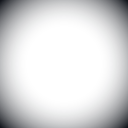
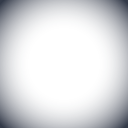
feat(gui): redesign UI to casual Supercell / Empires & Puzzles style with 3D buttons, carved gem sockets, and royal slate palette

diff --git a/tools/gen_sprites.js b/tools/gen_sprites.js
@@ -162,76 +162,104 @@ function canvas(w, h) {
 }
 
 // ======================================================================= UI & PANELS
-{ // panel_dark (96x96 slice-9, border 22)
+{ // panel_dark (96x96 slice-9, border 22) - Royal slate beveled tablet (Clash Royale)
   const c = canvas(96, 96);
-  const outer = rbox(48, 48, 44, 44, 14);
-  c.outlined(outer, vgrad(H('#242c42'), H('#161b29'), 6, 90), 3);
-  c.stroke(rbox(48, 48, 41, 41, 12), H('#4a587a', 0.8), 2.5);
-  c.stroke(rbox(48, 48, 37, 37, 10), H('#0d1019', 0.6), 2);
+  c.fill(rbox(48, 51, 44, 43, 15), H('#070b13', 0.55));
+  const outer = rbox(48, 47, 44, 43, 14);
+  c.outlined(outer, vgrad(H('#324466'), H('#1a2538'), 6, 88), 2.5, H('#0c131f'));
+  c.stroke(rbox(48, 47, 42, 41, 12), vgrad(H('#5e7ca8', 0.75), H('#28374d', 0.2), 6, 88), 2);
+  c.fill(rbox(48, 48, 38, 38, 10), vgrad(H('#22314a'), H('#192336'), 10, 86));
+  c.fill(rbox(48, 20, 36, 6, 4), H('#ffffff', 0.05));
   c.save('panel_dark');
 }
-{ // panel_stone (96x96 slice-9, border 24) - heavy board frame
+{ // panel_stone (96x96 slice-9, border 24) - Sculpted royal stone & gold trim (Empires & Puzzles / Clash of Clans)
   const c = canvas(96, 96);
-  const outer = rbox(48, 48, 45, 45, 16);
-  c.outlined(outer, vgrad(H('#2e3752'), H('#181d2c'), 4, 92), 3);
-  c.stroke(rbox(48, 48, 42, 42, 13), H('#b68c44', 0.85), 3);
-  c.fill(rbox(48, 48, 36, 36, 9), H('#111521'));
-  for (const [rx, ry] of [[14, 14], [82, 14], [14, 82], [82, 82]]) {
-    c.outlined(circle(rx, ry, 4.2), H('#e8b84b'), 1.8);
+  c.fill(rbox(48, 52, 45, 43, 16), H('#05080e', 0.7));
+  const outer = rbox(48, 47, 45, 43, 15);
+  c.outlined(outer, vgrad(H('#3c4f73'), H('#1d283c'), 4, 90), 3, H('#0a0f18'));
+  c.stroke(rbox(48, 47, 42, 40, 13), vgrad(H('#ffd566'), H('#b87d26'), 6, 88), 3);
+  c.stroke(rbox(48, 47, 39, 37, 10), H('#784f14', 0.8), 1.5);
+  c.fill(rbox(48, 47, 36, 35, 8), vgrad(H('#1c283c'), H('#131c2b'), 12, 82));
+  for (const [rx, ry] of [[15, 14], [81, 14], [15, 80], [81, 80]]) {
+    c.fill(circle(rx, ry + 1.5, 4.5), H('#5a3a0e'));
+    c.outlined(circle(rx, ry, 4.2), vgrad(H('#fff199'), H('#d48b17'), ry - 4, ry + 4), 1.6, H('#422705'));
+    c.fill(circle(rx - 1, ry - 1, 1.3), H('#ffffff', 0.85));
   }
   c.save('panel_stone');
 }
-for (const [name, c1, c2, rim] of [
-  ['card_common', '#45506b', '#272e40', '#8b99b8'],
-  ['card_rare', '#634329', '#2b1f21', '#f09a36'],
-  ['card_epic', '#4e2c75', '#211638', '#d273ff'],
-  ['card_legendary', '#1d5a73', '#2d1c4a', '#52f0ff'],
+for (const [name, cTop, cBot, rimTop, rimBot, studCol] of [
+  ['card_common',    '#7184a3', '#324157', '#cbd7e8', '#889cb8', '#dce7f5'],
+  ['card_rare',      '#b86414', '#572704', '#fed777', '#d97706', '#ffe894'],
+  ['card_epic',      '#8b35dc', '#421175', '#f0abfc', '#a855f7', '#ffd644'],
+  ['card_legendary', '#0ea5e9', '#1e3a8a', '#7dd3fc', '#0284c7', '#52f0ff'],
 ]) {
   const c = canvas(96, 96);
-  c.outlined(rbox(48, 48, 44, 44, 14), vgrad(H(c1), H(c2), 6, 90), 3);
-  c.stroke(rbox(48, 48, 40, 40, 11), H(rim), 3.5);
-  c.fill(rbox(48, 48, 35, 35, 8), H('#151926', 0.85));
-  if (name === 'card_epic' || name === 'card_legendary') {
-    const stud = name === 'card_legendary' ? H('#52f0ff') : H('#ffd644');
-    for (const [rx, ry] of [[14, 14], [82, 14], [14, 82], [82, 82]]) c.fill(circle(rx, ry, 4.2), stud);
+  c.fill(rbox(48, 51, 44, 43, 15), H('#080c14', 0.6));
+  const outer = rbox(48, 47, 44, 43, 14);
+  c.outlined(outer, vgrad(H(cTop), H(cBot), 6, 88), 2.8, H('#0c121c'));
+  c.stroke(rbox(48, 47, 40, 39, 11), vgrad(H(rimTop), H(rimBot), 8, 86), 3.2);
+  c.fill(rbox(48, 47, 35, 34, 8), (x, y) => {
+    const d = len((x - 48) / 35, (y - 47) / 34);
+    const bg1 = H('#26354f'), bg2 = H('#182233');
+    const base = mix(bg1, bg2, clamp01((y - 12) / 72));
+    return mix(lighter(base, 0.18), base, clamp01(d));
+  });
+  if (name !== 'card_common') {
+    for (const [rx, ry] of [[15, 14], [81, 14], [15, 80], [81, 80]]) {
+      c.fill(circle(rx, ry + 1, 3.8), H('#1a1205', 0.7));
+      c.outlined(circle(rx, ry, 3.5), H(studCol), 1.2, H('#1a1205'));
+      c.fill(circle(rx - 0.8, ry - 0.8, 1.1), H('#ffffff', 0.9));
+    }
   }
   c.save(name);
 }
-for (const [name, top, bot, hi] of [
-  ['btn_gold', '#f2bd47', '#b56d1c', '#ffe89c'],
-  ['btn_purple', '#9d5ce6', '#56299e', '#d6b0ff'],
-  ['btn_crimson', '#e6485c', '#8c1c31', '#ff9aa8'],
-  ['btn_dark', '#35405e', '#20273b', '#5d6e99'],
+for (const [name, topGrad, botGrad, shadowBase, hiStroke] of [
+  ['btn_gold',    '#ffc72c', '#f57c00', '#9c4200', '#fff4b8'],
+  ['btn_green',   '#4ade80', '#16a34a', '#14532d', '#bbf7d0'],
+  ['btn_purple',  '#c084fc', '#7e22ce', '#4c1d95', '#f3e8ff'],
+  ['btn_crimson', '#f87171', '#dc2626', '#7f1d1d', '#fecaca'],
+  ['btn_dark',    '#475e82', '#22324a', '#121d2c', '#859ec4'],
 ]) {
   const c = canvas(96, 64);
-  c.fill(rbox(48, 35, 44, 25, 13), H('#090b12', 0.55));
-  const body = rbox(48, 31, 44, 24, 13);
-  c.outlined(body, vgrad(H(top), H(bot), 8, 54), 3);
-  c.stroke(rbox(48, 31, 41, 21, 11), H(hi, 0.45), 2);
-  c.fill(rbox(48, 15, 34, 4, 2), H(hi, 0.35));
+  c.fill(rbox(48, 38, 44, 23, 14), H('#060910', 0.65));
+  const baseBox = rbox(48, 35, 44, 23, 13);
+  c.outlined(baseBox, H(shadowBase), 2.5, H('#090d16'));
+  const faceBox = rbox(48, 29, 44, 21, 12);
+  c.outlined(faceBox, vgrad(H(topGrad), H(botGrad), 8, 48), 2.5, H('#090d16'));
+  c.stroke(rbox(48, 29, 41, 18, 10), H(hiStroke, 0.45), 1.8);
+  c.fill(rbox(48, 16, 34, 4.5, 3), [1, 1, 1, 0.38]);
   c.save(name);
 }
-{ // btn_round
+{ // btn_round (88x88) - Chunky tactile round button
   const c = canvas(88, 88);
-  c.fill(circle(44, 47, 38), H('#090b12', 0.55));
-  c.outlined(circle(44, 43, 37), vgrad(H('#435073'), H('#21283d'), 8, 78), 3);
-  c.stroke(circle(44, 43, 33), H('#8d9cc4', 0.5), 2);
+  c.fill(circle(44, 49, 39), H('#060910', 0.65));
+  c.outlined(circle(44, 46, 38), H('#162234'), 2.5, H('#080d15'));
+  c.outlined(circle(44, 42, 38), vgrad(H('#4b6387'), H('#25364f'), 6, 78), 2.5, H('#080d15'));
+  c.stroke(circle(44, 42, 34), H('#9ab5db', 0.45), 2);
+  c.fill(ellipse(44, 20, 20, 6), [1, 1, 1, 0.28]);
   c.save('btn_round');
 }
-{ // cell_bg (board tile slot)
+{ // cell_bg (128x128) - Carved stone socket / gem recess (Empires & Puzzles)
   const c = canvas(128, 128);
-  c.fill(rbox(64, 64, 59, 59, 16), vgrad(H('#1d2438'), H('#141928'), 6, 122));
-  c.stroke(rbox(64, 64, 57, 57, 15), H('#2d3854', 0.7), 2);
+  c.fill(rbox(64, 65, 60, 60, 16), H('#090d16', 0.7));
+  c.outlined(rbox(64, 64, 59, 59, 15), vgrad(H('#273854'), H('#182438'), 6, 122), 2.5, H('#0c131f'));
+  c.stroke(rbox(64, 64, 56, 56, 13), vgrad(H('#111826'), H('#56729f'), 8, 120), 2.5);
+  c.fill(rbox(64, 64, 53, 53, 11), vgrad(H('#121b2b'), H('#1d2b42'), 12, 116));
+  c.fill(ellipse(64, 26, 44, 14), H('#080c14', 0.55));
+  c.fill(circle(64, 66, 36), [1, 1, 1, 0.05]);
   c.save('cell_bg');
 }
-{ // bar_bg & bar_fill & square & FX
+{ // bar_bg & bar_fill & square & FX - Glossy 3D capsule meters
   const c1 = canvas(64, 28);
-  c1.outlined(rbox(32, 14, 29, 11, 7), H('#101420'), 2);
-  c1.stroke(rbox(32, 14, 27, 9, 6), H('#384463'), 1.5);
+  c1.fill(rbox(32, 16, 30, 12, 8), H('#080d16', 0.6));
+  c1.outlined(rbox(32, 14, 29, 11, 7), vgrad(H('#121b29'), H('#1a2638'), 4, 24), 2, H('#090e18'));
+  c1.stroke(rbox(32, 14, 27, 9, 6), vgrad(H('#090e17'), H('#3a4e70'), 4, 24), 1.5);
   c1.save('bar_bg');
 
   const c2 = canvas(64, 28);
-  c2.fill(rbox(32, 14, 27, 9, 5), vgrad(H('#ffffff'), H('#cccccc'), 4, 24));
+  c2.fill(rbox(32, 14, 27, 9, 5), vgrad(H('#ffffff'), H('#b8c2cc'), 4, 24));
+  c2.fill(rbox(32, 8, 25, 3, 2), [1, 1, 1, 0.45]);
+  c2.fill(rbox(32, 21, 26, 2, 1.5), [0, 0, 0, 0.25]);
   c2.save('bar_fill');
 
   const sq = canvas(16, 16);
@@ -841,13 +869,14 @@ function drawWolf(c, cx, cy, s) {
   p.outlined(poly([[22, 14], [50, 32], [22, 50]], 4), H('#f3eee6'), 3);
   p.save('icon_play');
 }
-{ // node_stage (campaign medallion, neutral stone + gold rim) 96x96
+{ // node_stage (campaign medallion, royal stone + gold rim) 96x96
   const c = canvas(96, 96);
-  c.fill(circle(48, 52, 40), H('#05070c', 0.55));
-  c.outlined(circle(48, 47, 39), vgrad(H('#e8b84b'), H('#8a5a20'), 10, 86), 3);
-  c.fill(circle(48, 47, 31), vgrad(H('#3a4566'), H('#1b2133'), 18, 78));
-  c.stroke(circle(48, 47, 31), H('#0c0f18', 0.8), 2);
-  c.fill(ellipse(40, 32, 14, 6), [1, 1, 1, 0.12]);
+  c.fill(circle(48, 53, 41), H('#05080e', 0.65));
+  c.outlined(circle(48, 47, 40), vgrad(H('#ffd866'), H('#b87820'), 8, 86), 3, H('#241503'));
+  c.stroke(circle(48, 47, 36), H('#fff29e', 0.5), 1.5);
+  c.fill(circle(48, 47, 32), vgrad(H('#40577d'), H('#1e2a3f'), 16, 78));
+  c.stroke(circle(48, 47, 32), H('#0d1522', 0.8), 2);
+  c.fill(ellipse(44, 30, 16, 7), [1, 1, 1, 0.22]);
   c.save('node_stage');
 }
 { // path_dot 24x24
@@ -864,12 +893,12 @@ function drawWolf(c, cx, cy, s) {
   }, (x, y) => [1, 1, 1, clamp01(1 - len(x - 128, y - 128) / 126) * 0.9]);
   c.save('rays');
 }
-{ // vignette 128x128 (transparent center -> dark edges), stretched over screens
+{ // vignette 128x128 (transparent center -> rich royal navy edges), stretched over screens
   const c = canvas(128, 128);
   c.fill((x, y) => -1, (x, y) => {
     const d = len((x - 64) / 64, (y - 64) / 64);
-    const t = clamp01((d - 0.55) / 0.85);
-    return [0.02, 0.03, 0.06, t * t * 0.95];
+    const t = clamp01((d - 0.52) / 0.85);
+    return [0.06, 0.09, 0.16, t * t * 0.85];
   });
   c.save('vignette');
 }
@@ -892,9 +921,10 @@ function drawWolf(c, cx, cy, s) {
 }
 { // tab_active (nav highlight, slice-9)
   const t = canvas(96, 96);
-  t.outlined(rbox(48, 48, 44, 44, 18), vgrad(H('#3b4766'), H('#232a40'), 6, 90), 3);
-  t.stroke(rbox(48, 48, 40, 40, 15), H('#e8b84b', 0.9), 3);
-  t.fill(rbox(48, 22, 30, 6, 4), H('#ffffff', 0.12));
+  t.fill(rbox(48, 51, 44, 43, 17), H('#070b13', 0.55));
+  t.outlined(rbox(48, 47, 44, 43, 16), vgrad(H('#4b6387'), H('#24334a'), 6, 88), 2.8, H('#0c131f'));
+  t.stroke(rbox(48, 47, 41, 40, 14), vgrad(H('#ffd25e'), H('#c48220'), 8, 86), 2.5);
+  t.fill(rbox(48, 20, 32, 5, 3), [1, 1, 1, 0.25]);
   t.save('tab_active');
 }
 { // icon_skull (fallen squad)
